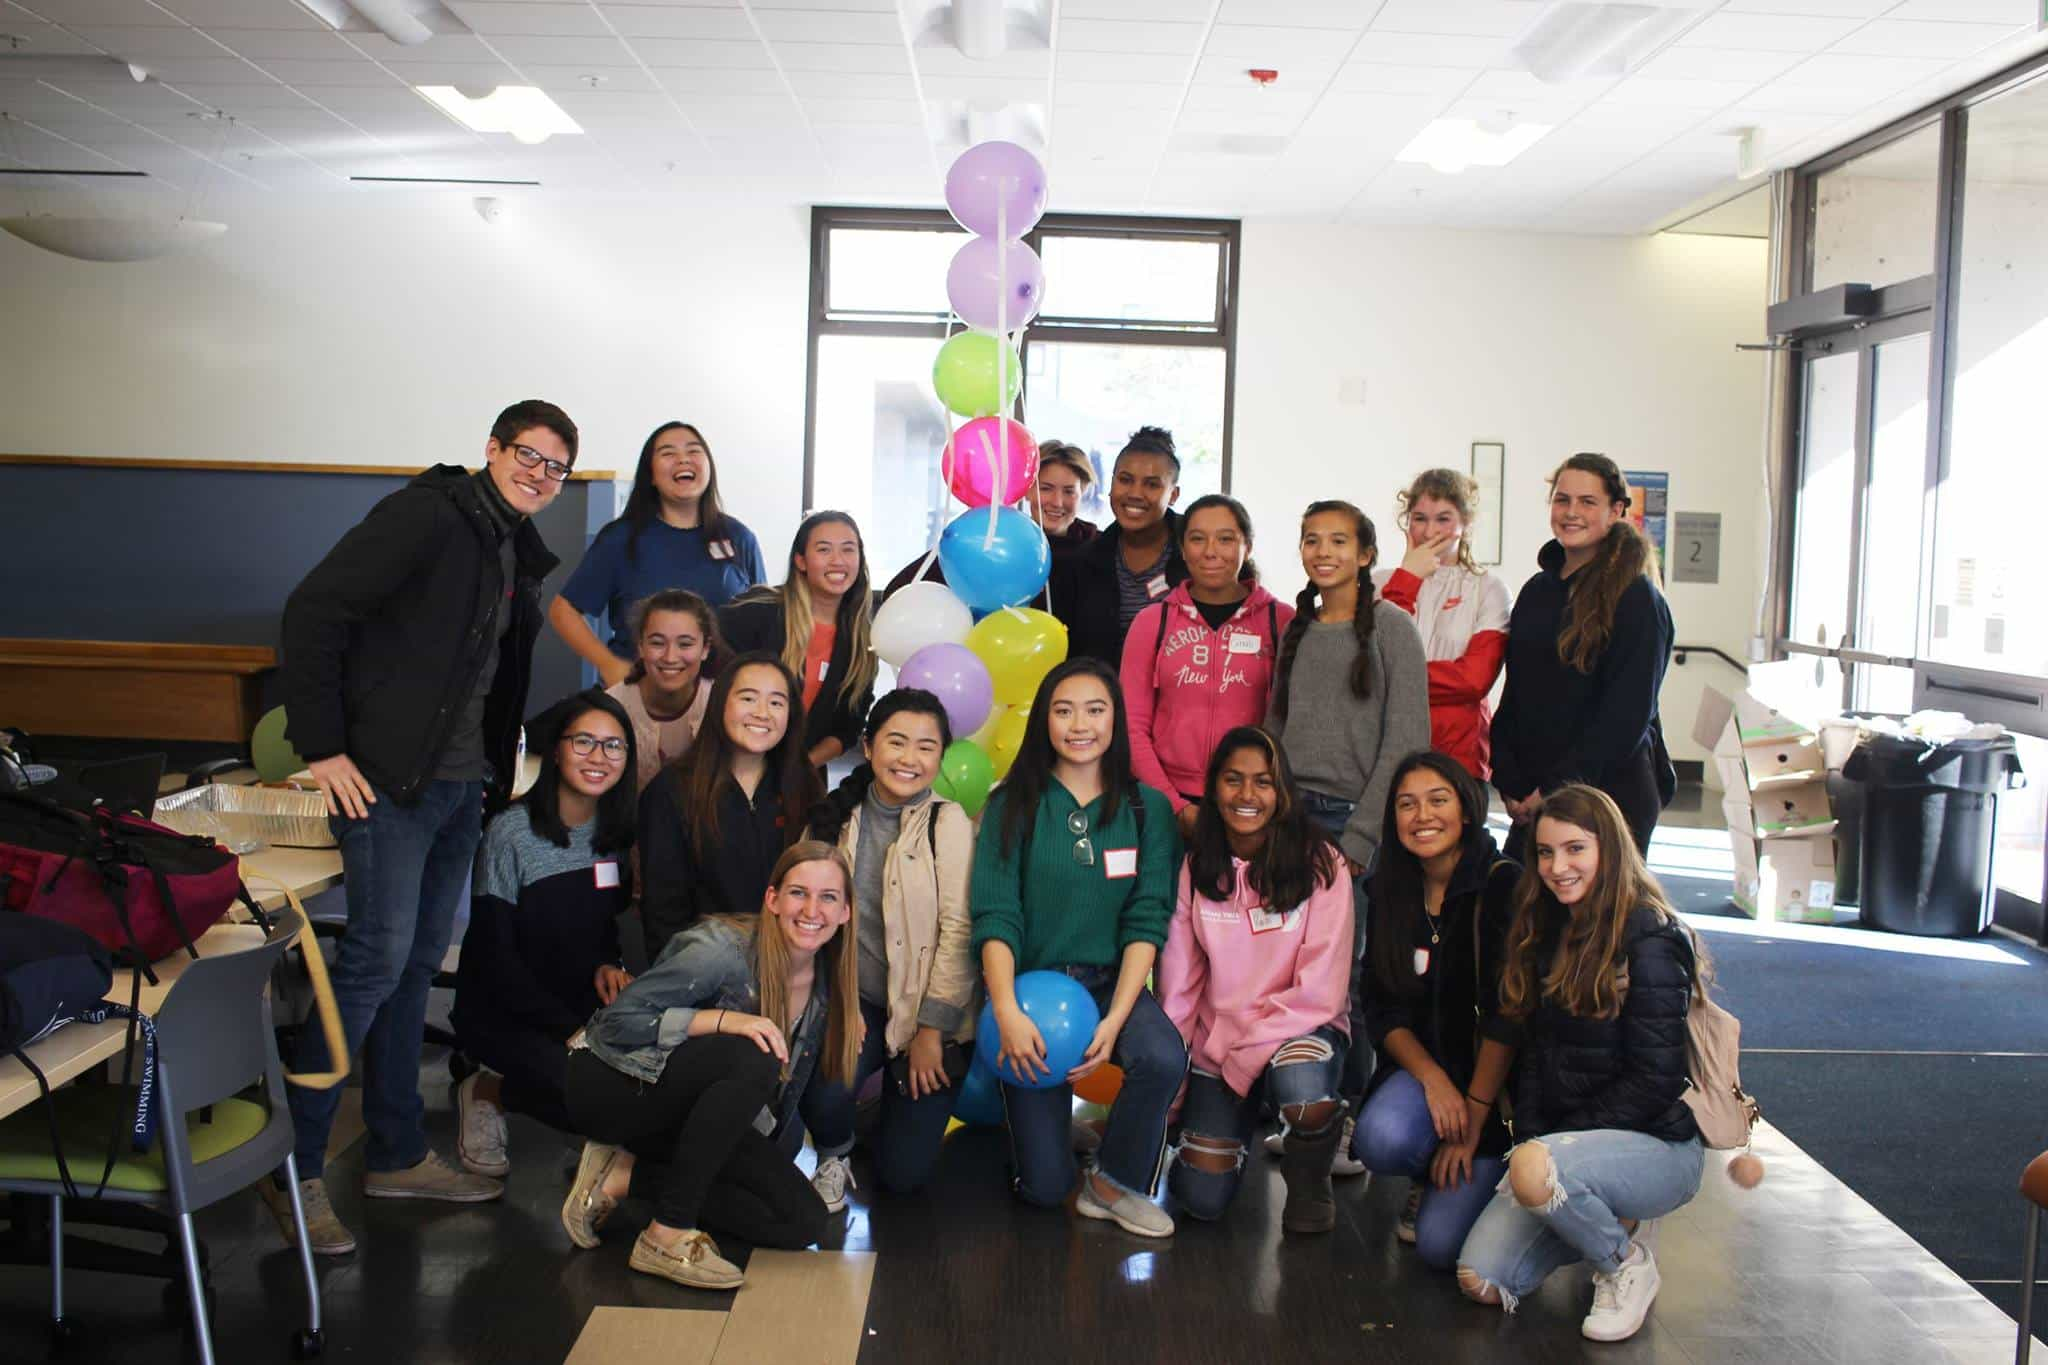
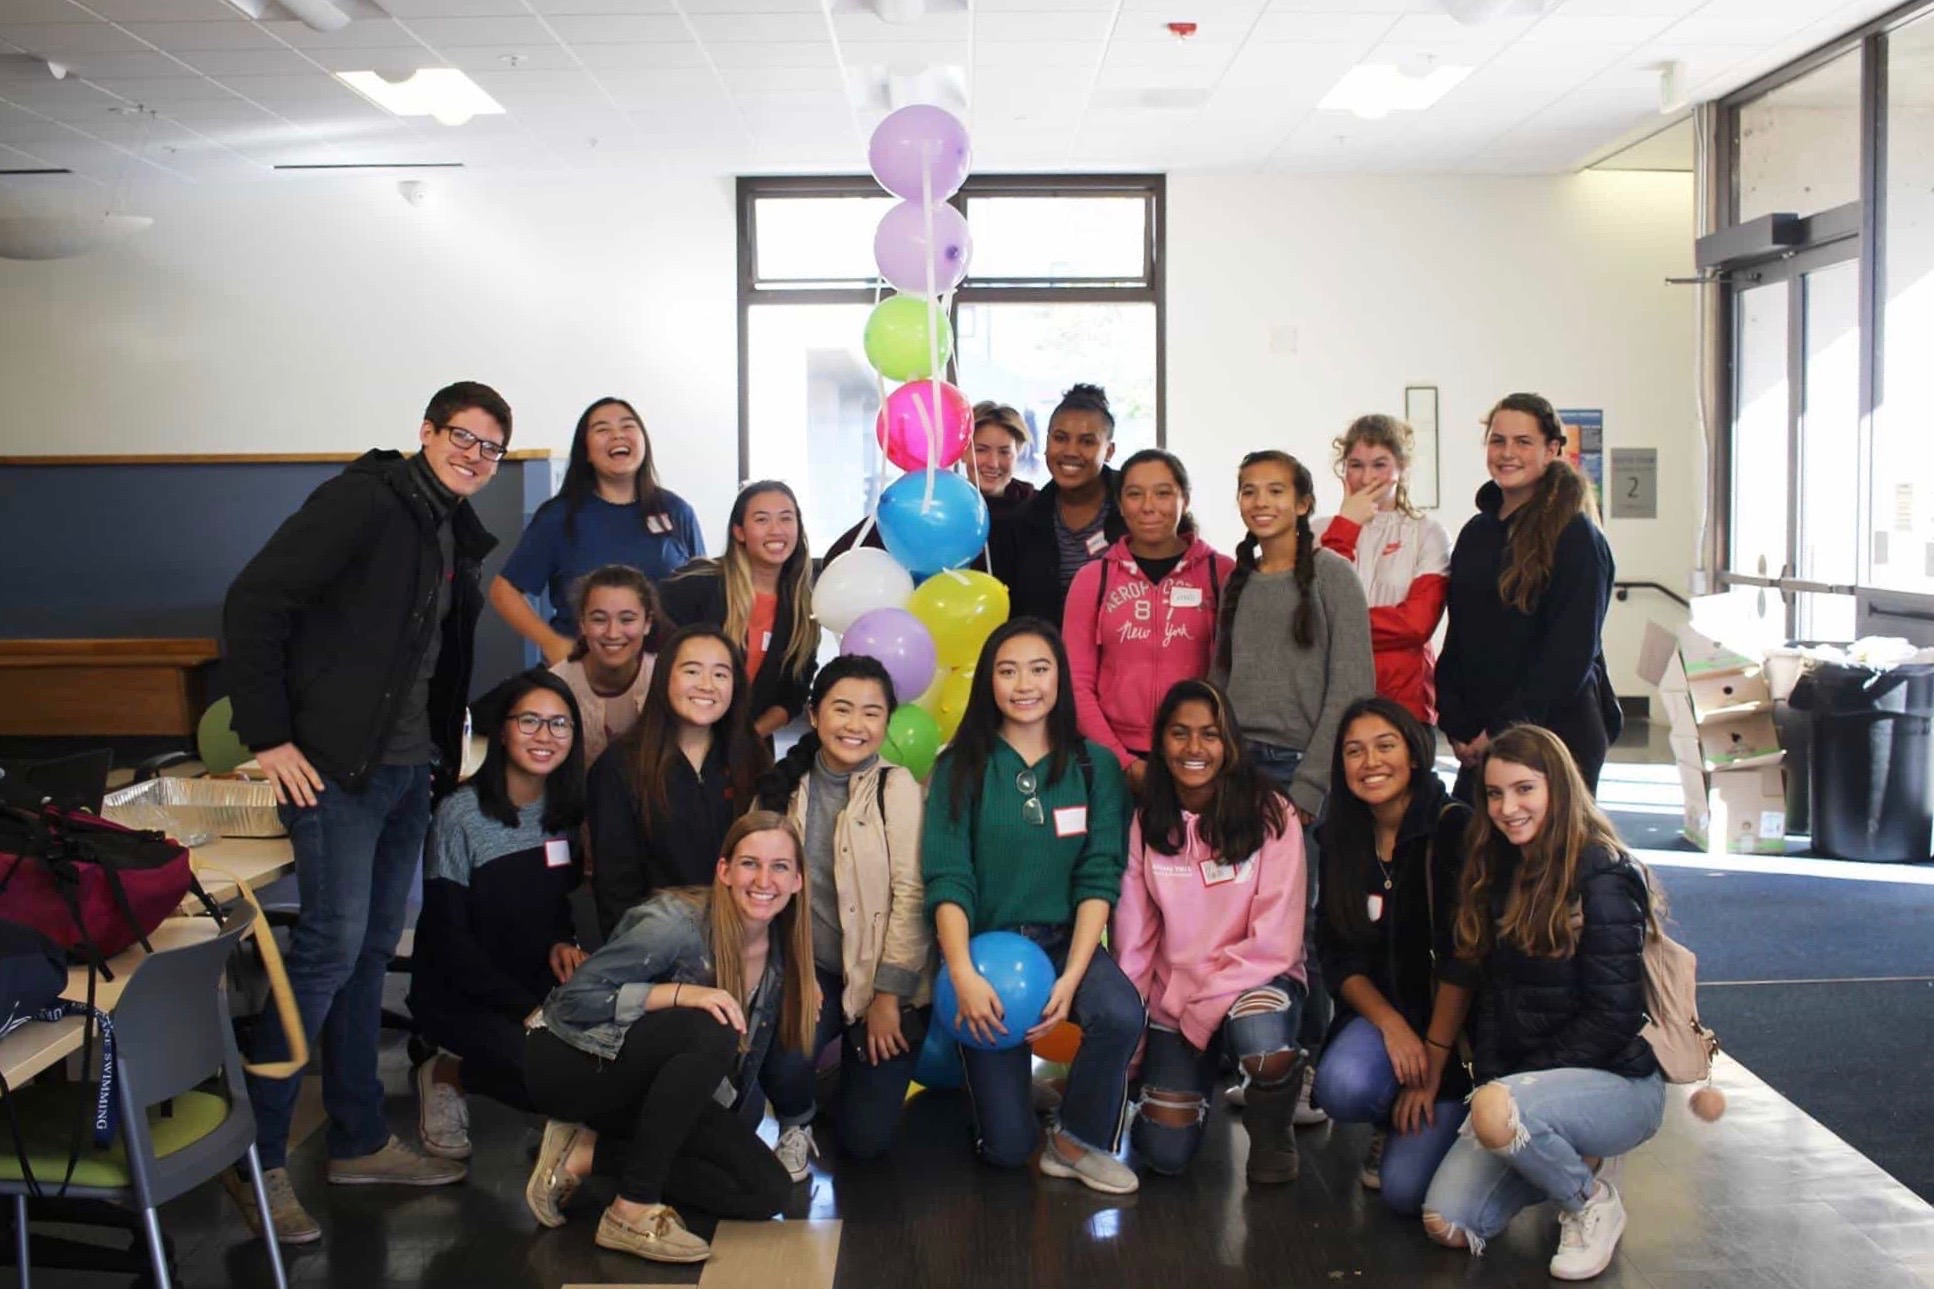
updated outreach cover photo and added filler pep photo

diff --git a/outreach.html b/outreach.html
@@ -198,17 +198,14 @@
 
         <!--6. PEP (based off of SWE++ section)-->
         <div class="card mb-3 mx-2">
-            <!-- <a href="#"> -->
-            <!--put an image here later  -->
-            <!-- </a> -->
+            <a href="#">
+              <img class="card-img-top" src="img/outreach/pep.jpg" alt="Card image cap">
+            </a>
             <div class="card-body">
                 <h5 class="card-title">Parent Education Program</h5>
                 <h6 class="card-text">
                     SWE’s Parent Education Program (PEP) is a 30 to 60-minute workshop in which we share important research, experiences, and resources to ensure that families have access to tools that not only encourage but also further their children’s STEM education beyond the classroom. We believe that the value of a holistic approach to supporting STEM education cannot be understated. Thus, in addition to UC Berkeley SWE’s typical outreach programs for students, we are organizing this program geared towards parents and families. Our mission is to provide parents with the knowledge and resources to support their children’s STEM education regardless of family background.
                 </h6>
-                <br>
-                <br>
-                <br>
                 <br>
                 <a href="pep" class="card-link"><strong>Learn More &rarr;</strong></a>
             </div>
@@ -218,13 +215,18 @@
         <!--6. SWENext-->
         <div class="card mb-3 mx-2">
             <a href="#">
-              <img class="card-img-top" src="img/outreach/swenext/only1.jpg" alt="Card image cap">
+              <img class="card-img-top" src="img/outreach/swenext.jpg" alt="Card image cap">
             </a>
             <div class="card-body">
                 <h5 class="card-title">SWENext</h5>
                 <h6 class="card-text">
                     SWENext aims to encourage high school females to explore STEM and consider a STEM career by helping them establish SWENext clubs at their high schools. We provide students with resources to help them navigate high school, college, and career planning. We also have a mentorship program that connects high schoolers with undergraduate mentors to advise, support, and inspire them to pursue their interests in STEM. Join SWENext committee to be part of a community that works with youth to increase representation in STEM fields!
                 </h6>
+                <br>
+                <br>
+                <br>
+                <br>
+                <br>
                 <br>
                 <a href="https://sites.google.com/berkeley.edu/swenext/home" class="card-link"><strong>Learn More &rarr;</strong></a>
             </div>
